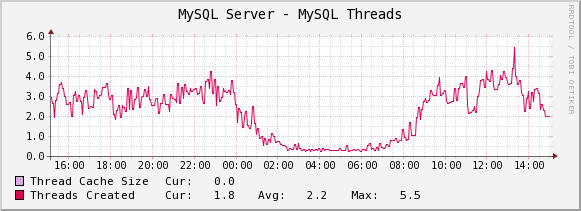
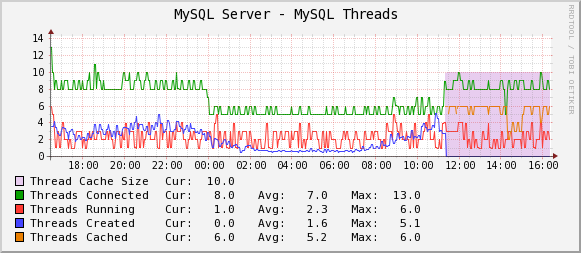
Fix for bug #1157911 Improve "MySQL Threads" graph

Changed region(s): [[0.0, 0.1137, 0.9914, 0.9953], [0.2788, 0.0284, 0.7126, 0.1137], [0.9604, 0.0284, 0.9914, 0.1137]]

diff --git a/docs/cacti/mysql-templates.rst b/docs/cacti/mysql-templates.rst
@@ -414,9 +414,9 @@ but is covered well in the book *High Performance MySQL*.
 .. image:: images/mysql_mysql_threads.png
 
 The MySQL Threads graph shows the size of thread cache the server is configured
-with and the number of threads created.  If your server sees hundreds of
-connections per second you should normally set thread_cache_size high enough
-so that most new connections use cached threads.
+with and the number of threads of each type.  On this example we can observe that once
+thread_cache_size was set to 10, MySQL stopped creating new threads and started using
+the cached ones.
  
 .. image:: images/mysql_mysql_transaction_handler.png
 
